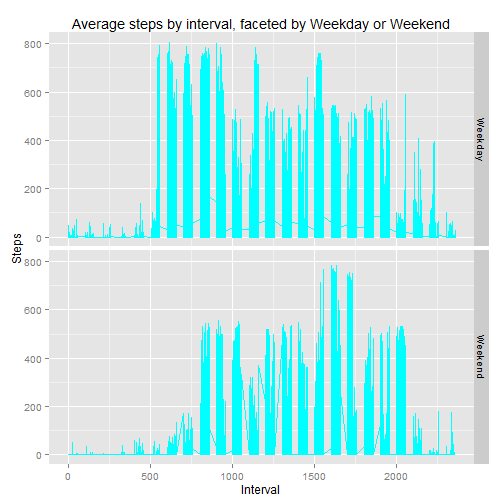
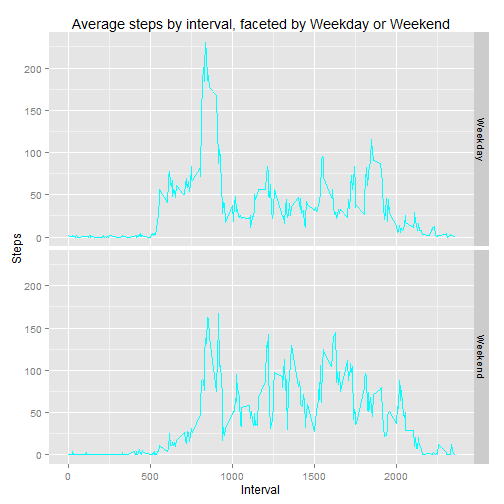
Updated Assignment: Retake course

diff --git a/PA1_template.html b/PA1_template.html
@@ -203,9 +203,6 @@ hr {
 <body>
 <h4>Author: David Guinivere</h4>
 
-<p><br>   &lt;!&ndash; bliank line &ndash;&gt;
-<br>   &lt;!&ndash; bliank line &ndash;&gt;</p>
-
 <h2>Loading and preprocessing the data</h2>
 
 <p>The data file used for this analysis is: activity.csv 
@@ -240,7 +237,7 @@ df_days$sum &lt;- aggsum$x
 
 <p>The data frame df_days now has 61 observations, 1 for each day, and 2 variales: date and sum.</p>
 
-<p>Below is a histogram showing the sum of steps taken per day.  I chose 30 bins for my histogram as this is the avewrage number of days per month, and shows a good ratio of noise to precision which shows the data distribution</p>
+<p>Below is a histogram showing the sum of steps taken per day.  I chose 30 bins for my histogram as this is the average number of days per month, and shows a good ratio of noise to precision in regards to the data distribution</p>
 
 <pre><code class="r">hist(df_days$sum,breaks=30, main=&quot;Histogram showing total number of steps per day.&quot;, xlab=&quot;Sum of steps.&quot;)
 </code></pre>
@@ -259,7 +256,7 @@ options(scipen=999)
 ## Calculate the mean number of steps per day by taking the mean of each sum of the daily number of steps per day.
 mean_steps = round(mean(df_days$sum), 1)
 #
-## Calculate the median number of steps per day by taking the median of  of each sum of the daily number of steps per day.
+## Calculate the median number of steps per day by taking the median of each sum of the daily number of steps per day.
 median_steps = median(df_days$sum)
 </code></pre>
 
@@ -271,7 +268,8 @@ median_steps = median(df_days$sum)
 
 <p>In order to make a time series plot with each 5-minute interval for the x-axis, and the average number of stweps traken, for the y-axis, the data contained in df_activity is aggregated by the 5-minute interval, the 5-minute interval is transformed into POSIXlt values.</p>
 
-<pre><code class="r">suppressWarnings(library(ggplot2))
+<pre><code class="r">suppressWarnings(library(dplyr))
+suppressWarnings(library(ggplot2))
 suppressWarnings(library(scales))
 suppressWarnings(library(lubridate))
 #
@@ -372,7 +370,7 @@ hist(df_days$sum,breaks=30, main=&quot;Histogram showing total number of steps p
 ## Calculate the mean number of steps per day by taking the mean of each sum of the daily number of steps per day.
 mean_steps_imputed &lt;- round(mean(df_days$sum), 1)
 #
-## Calculate the median number of steps per day by taking the median of  of each sum of the daily number of steps per day.
+## Calculate the median number of steps per day by taking the median of each sum of the daily number of steps per day.
 median_steps_imputed &lt;- round(median(df_days$sum),0)
 </code></pre>
 
@@ -380,14 +378,13 @@ median_steps_imputed &lt;- round(median(df_days$sum),0)
 
 <p>The median of the number of steps taken per day using imputed data is 10765,  versus the &ldquo;un-imputed&rdquo; median 10765.</p>
 
-<p>The histogram using the imputed data, has greater frequecy for the  10000 bin.     However the histograms have roughly the same distribution of steps per interval when averaged over all days.</p>
+<p>The histogram using the imputed data, has greater frequency for the  10000 bin.     However the histograms have roughly the same distribution of steps per interval when averaged over all days.</p>
 
 <h2>Are there differences in activity patterns between weekdays and weekends?</h2>
 
 <p>Starting with the imputed data set (df_impute), add a factor variable for &ldquo;weekday&rdquo;, or &ldquo;weekend&rdquo;.</p>
 
-<pre><code class="r">#
-##
+<pre><code class="r">##
 df_pattern &lt;- df_impute
 #
 ## Create a POSIXlt variable for tha date.  Pad interval with leading 0&#39;s
@@ -414,15 +411,24 @@ for (idx in 1:length(df_pattern$day_name)) {
 #
 ## Convert $day_type to a factor variable
 df_pattern$day_type &lt;- as.factor(df_pattern$day_type)
+#
+## Create a smaller data frame with only the needed variables
+df_mean &lt;- df_pattern[,c(&quot;day_type&quot;, &quot;steps&quot;, &quot;interval&quot;)]
+#
+## Summarize the steps taken to find average steps taken per interval for weekdays vs. weekends
+df_mean &lt;- as.data.frame(summarize(group_by(df_mean, day_type, interval), mean_steps = mean(steps)))
+#
 ## Plot a time series graph, faceted by $day_type
-ggplot(df_pattern, aes(x=interval, y=steps)) + geom_line(col=&quot;cyan&quot;) +
+ggplot(df_mean, aes(x=interval, y=mean_steps)) + geom_line(col=&quot;cyan&quot;) +
         facet_grid(day_type ~ .) +
         ggtitle(&quot;Average steps by interval, faceted by Weekday or Weekend&quot;) +
         xlab(&quot;Interval&quot;) +
         ylab(&quot;Steps&quot;)
 </code></pre>
 
[2 lines of base64/hex data omitted]
+
+<p>One notable observation is that during weekdays there is one large peak in the morning, followed by several smaller peaks as throughout the day.  Howver on the weekend days the first peak in the morning is smaller than the first peak the weekdays, and the subsequent peaks during the day on weekends tend to be greater than the subsequent peaks on the weekdays.</p>
 
 </body>
 

diff --git a/PA1_template.md b/PA1_template.md
@@ -5,8 +5,6 @@ output:
     keep_md: yes
 ---
 #### Author: David Guinivere
-<br>   <!-- bliank line -->
-<br>   <!-- bliank line -->
 
 ## Loading and preprocessing the data
 The data file used for this analysis is: activity.csv 
@@ -42,7 +40,7 @@ df_days$sum <- aggsum$x
 ```
 The data frame df_days now has 61 observations, 1 for each day, and 2 variales: date and sum.
 
-Below is a histogram showing the sum of steps taken per day.  I chose 30 bins for my histogram as this is the avewrage number of days per month, and shows a good ratio of noise to precision which shows the data distribution
+Below is a histogram showing the sum of steps taken per day.  I chose 30 bins for my histogram as this is the average number of days per month, and shows a good ratio of noise to precision in regards to the data distribution
 
 
 ```r
@@ -65,7 +63,7 @@ options(scipen=999)
 ## Calculate the mean number of steps per day by taking the mean of each sum of the daily number of steps per day.
 mean_steps = round(mean(df_days$sum), 1)
 #
-## Calculate the median number of steps per day by taking the median of  of each sum of the daily number of steps per day.
+## Calculate the median number of steps per day by taking the median of each sum of the daily number of steps per day.
 median_steps = median(df_days$sum)
 ```
 The mean of the number of steps taken per day is 10766.2.
@@ -78,6 +76,7 @@ In order to make a time series plot with each 5-minute interval for the x-axis, 
 
 
 ```r
+suppressWarnings(library(dplyr))
 suppressWarnings(library(ggplot2))
 suppressWarnings(library(scales))
 suppressWarnings(library(lubridate))
@@ -184,14 +183,14 @@ hist(df_days$sum,breaks=30, main="Histogram showing total number of steps per da
 ## Calculate the mean number of steps per day by taking the mean of each sum of the daily number of steps per day.
 mean_steps_imputed <- round(mean(df_days$sum), 1)
 #
-## Calculate the median number of steps per day by taking the median of  of each sum of the daily number of steps per day.
+## Calculate the median number of steps per day by taking the median of each sum of the daily number of steps per day.
 median_steps_imputed <- round(median(df_days$sum),0)
 ```
 The mean of the number of steps taken per day using imputed data is 10766.2 versus the "un-imputed" mean 10766.2.
 
 The median of the number of steps taken per day using imputed data is 10765,  versus the "un-imputed" median 10765.
 
-The histogram using the imputed data, has greater frequecy for the  10000 bin.     However the histograms have roughly the same distribution of steps per interval when averaged over all days.
+The histogram using the imputed data, has greater frequency for the  10000 bin.     However the histograms have roughly the same distribution of steps per interval when averaged over all days.
 
 
 ## Are there differences in activity patterns between weekdays and weekends?
@@ -200,7 +199,6 @@ Starting with the imputed data set (df_impute), add a factor variable for "weekd
 
 
 ```r
-#
 ##
 df_pattern <- df_impute
 #
@@ -228,8 +226,15 @@ for (idx in 1:length(df_pattern$day_name)) {
 #
 ## Convert $day_type to a factor variable
 df_pattern$day_type <- as.factor(df_pattern$day_type)
+#
+## Create a smaller data frame with only the needed variables
+df_mean <- df_pattern[,c("day_type", "steps", "interval")]
+#
+## Summarize the steps taken to find average steps taken per interval for weekdays vs. weekends
+df_mean <- as.data.frame(summarize(group_by(df_mean, day_type, interval), mean_steps = mean(steps)))
+#
 ## Plot a time series graph, faceted by $day_type
-ggplot(df_pattern, aes(x=interval, y=steps)) + geom_line(col="cyan") +
+ggplot(df_mean, aes(x=interval, y=mean_steps)) + geom_line(col="cyan") +
         facet_grid(day_type ~ .) +
         ggtitle("Average steps by interval, faceted by Weekday or Weekend") +
         xlab("Interval") +
@@ -237,3 +242,5 @@ ggplot(df_pattern, aes(x=interval, y=steps)) + geom_line(col="cyan") +
 ```
 
 ![plot of chunk create_day_type](figure/create_day_type-1.png) 
+
+One notable observation is that during weekdays there is one large peak in the morning, followed by several smaller peaks as throughout the day.  Howver on the weekend days the first peak in the morning is smaller than the first peak the weekdays, and the subsequent peaks during the day on weekends tend to be greater than the subsequent peaks on the weekdays.
